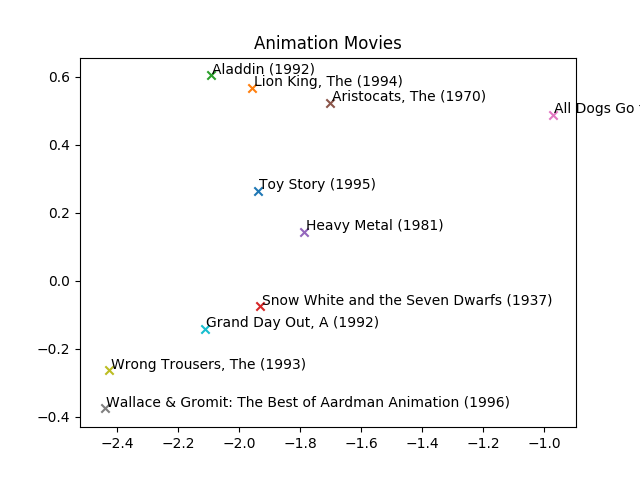
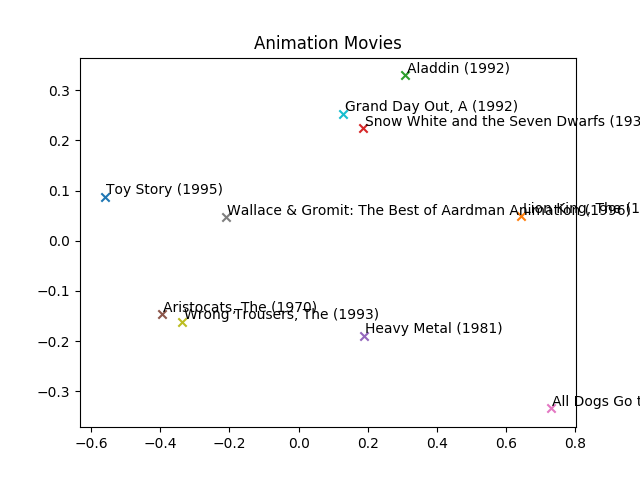
Added visualization for 5-3

diff --git a/5-3.py b/5-3.py
@@ -4,6 +4,7 @@ from surprise.model_selection import GridSearchCV
 
 import numpy as np
 import matplotlib.pyplot as plt
+from basicvis import visualize
 
 def main():
     # Initialize  dataset (from old code)
@@ -52,6 +53,20 @@ def main():
     print(gs.best_params['rmse'])
     '''
     # Results: best params were n_epochs=30, reg=0.1, lr=0.01
+
+    # Apply SVD to V
+    V = algo.qi.T
+    U = algo.pu
+    A, s, B = np.linalg.svd(V)
+    # Use first 2 columns of A
+    A2 = A[:, :2]
+    print(U.shape, V.shape, A2.shape)
+    U_projected = np.dot(A2.T, U.T)
+    V_projected = np.dot(A2.T, V).T
+    X = V_projected[:, 0]
+    Y = V_projected[:, 1]
+
+    visualize(X, Y, '5-3')
 
 # Computes mean squared error to match that used in prob2utils.py
 def get_err(predictions):
